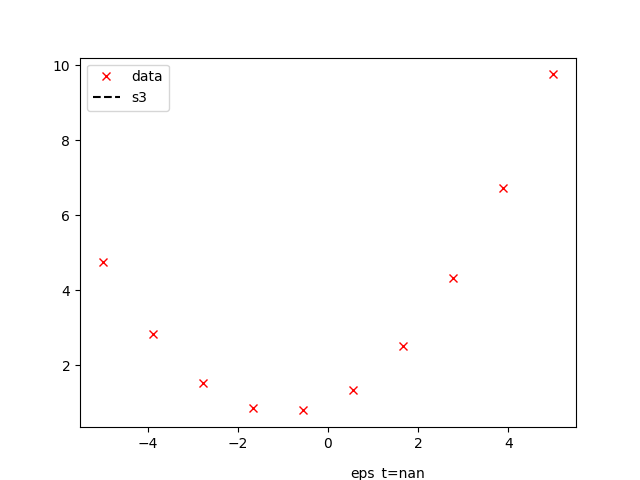
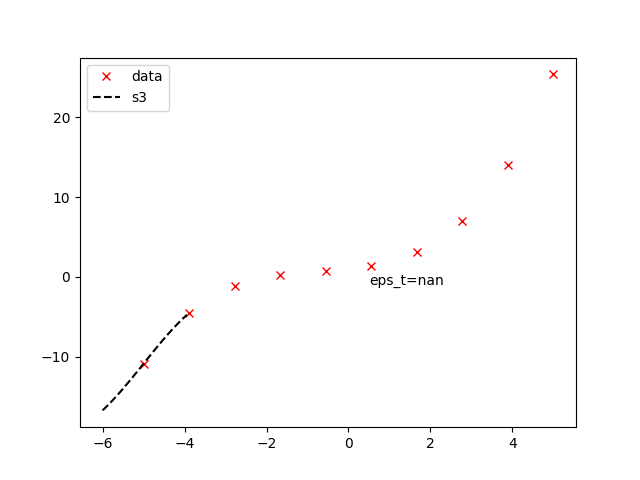
still trying to fix cubic spline

diff --git a/src/lab02/linalg_interp.py b/src/lab02/linalg_interp.py
@@ -29,7 +29,7 @@ def gauss_iter_solve(A,b,x0=None,tol=1e-8,alg="seidel"):
     dimb=len(b.shape)
     if dimb!=1:
         raise ValueError("b has {dimb} dimensions, should be 1")
-    #implement checks for the x0 if else statement
+   
     identity=np.eye(n)
 
     A_diag=np.diag(1.0/np.diag(A))
@@ -77,7 +77,12 @@ def spline_function(xd,yd,order=3):
         s1, s2, s3: function of interpolation  
         -------
     """
-    #make checks for dimensions for xd and yd
+    if len(xd)!=len(yd):
+        raise ValueError ("Data dimensions not equal")
+    xd_unique=np.unique(xd)
+    if len(xd_unique)!=len(xd):
+        raise ValueError ("Repetition of values in x data")
+    
     k_sort=np.argsort(xd)
     xd=np.array([xd[k] for k in k_sort])
     yd=np.array([yd[k] for k in k_sort])
@@ -94,6 +99,7 @@ def spline_function(xd,yd,order=3):
                else np.nonzero(xd<x)[0][-1])
             return a[k]+b[k]*(x-xd[k])
         return s1
+    
     elif order==2:
         A0=np.hstack([np.diag(dx[:-1]),np.zeros((N-2,1))])
         A1=np.hstack([np.zeros((N-2,1)),np.diag(dx[1:])])
@@ -102,9 +108,6 @@ def spline_function(xd,yd,order=3):
         B=np.zeros_like(dx)
         B[1:]=np.diff(f1)
         c=np.linalg.solve(A,B)
-
-        #print(A,B)
-
         b=f1-c*dx
         def s2(x):
             k=(0 if x <= xd[0]
@@ -112,25 +115,31 @@ def spline_function(xd,yd,order=3):
                else np.nonzero(xd<x)[0][-1])
             return a[k]+b[k]*(x-xd[k])+c[k]*(x-xd[k])**2
         return s2
+    #get zero along main diagonal?
+    #not indexing near the end correctly, especially 2nd last row?
     elif order==3:
         A=np.zeros((N,N))
-        #A[-2,-1]=dx[-1]
-        #A[1,0]=dx[0]
-        A[1:-1, :-2]+=np.diag(dx[:-1])
-        A[1:-1, 1:-1]+=2.0*(np.diag(dx[1:]+dx[:-1]))
-        A[1:-1, 2:]=+np.diag(dx[1:])
-        A[0,:3]=(-dx[1], (dx[0]+dx[1]), -dx[0])
-        A[-1,-3:]=(-dx[-1], (dx[-2]+dx[-1]), -dx[-2])
+        A[1,0]=dx[0]
+        A[-2,-1]=dx[-1]
+        A[0,:3]=[-dx[1], (dx[0]+dx[1]), -dx[-2]]
+        A[-1,-3:]=[-dx[-1], (dx[-1]+dx[-2]), -dx[-2]]
+        A[1:-1,:-2]=np.diag(dx[:-1])
+        A[1:-1,1:-1]=np.diag(2*(dx[:-1]+dx[1:]))
+        A[1:-1,2:]=np.diag(dx[1:])
+        print(A)
+
         B=np.zeros(N)
         B[1:-1]=3*np.diff(f1)
-        #print(A,B)
 
         c=gauss_iter_solve(A,B)
-        d=(c[1:]-c[-1])/(3.0*dx)
-        b=f1-c[-1]*dx-d*(dx**2)
+        d=np.diff(c)/(3.0*dx)
+        b=f1-c[:-1]*dx-d*dx**2
         def s3(x):
             k=(0 if x <= xd[0]
                else len(a)-1 if x>=xd[-1]
                else np.nonzero(xd<x)[0][-1])
             return a[k]+b[k]*(x-xd[k])+c[k]*(x-xd[k])**2+d[k]*(x-xd[k])**3
         return s3
+        
+    else:
+        return ValueError ("Invalid order, needs to be 1,2 or 3")

diff --git a/examples/test.py b/examples/test.py
@@ -1,5 +1,6 @@
 import numpy as np
 import matplotlib.pyplot as plt
+#from scipy.interpolate import CubicSpline
 import sys
 
 sys.path.insert(1, '/goph419-f2023-lab02-stSL/src/lab02')
@@ -39,10 +40,10 @@ def test_gauss_iter_solve():
 
 def test_spline():
     xd=np.linspace(-5.0,5.0,10)
-    yd=1.0+0.5*xd
 
     #testing first order spline interpolation
 
+    yd=1.0+0.5*xd
     s1=spline_function(xd,yd,order=1)
     xp=np.linspace(-6.0,6.0,100)
     yp_exp=1.0+0.5*xp
@@ -58,14 +59,11 @@ def test_spline():
     plt.legend()
     plt.savefig("../figures/test_linear.png")
 
-
-    #xd=np.linspace(-5.0,5.0,10)
-    yd=1.0+0.5*xd+0.25*xd**2
-
     #testing second order spline interpolation
 
+    yd=1.0+0.5*xd+0.25*xd**2
     s2=spline_function(xd,yd,order=2)
-    xp=np.linspace(-5.0,5.0,100)
+    xp=np.linspace(-6.0,6.0,100)
     yp_exp=1.0+0.5*xp+0.25*xp**2
     yp_actual=np.array(
         [s2(x) for x in xp]
@@ -81,7 +79,9 @@ def test_spline():
     
     #testing third order spline interpolation
     
-    s3=spline_function(xd,yd,order=3)
+    yd=1.0+0.5*xd+0.25*xd**2+0.125*xd**3
+    s3=spline_function(xd,yd)
+    #s3=CubicSpline(xd,yd)
     xp=np.linspace(-6.0,6.0,100)
     yp_exp=1.0+0.5*xp+0.25*xp**2+0.125*xp**3
     yp_actual=np.array(

diff --git a/examples/driver.py b/examples/driver.py
@@ -1,5 +1,7 @@
 import numpy as np
 import sys
+import matplotlib.pyplot as plt
+from scipy.interpolate import CubicSpline
 
 sys.path.insert(1, '/goph419-f2023-lab02-stSL/src/lab02')
 
@@ -9,7 +11,33 @@ from linalg_interp import (
 )
 
 def main():
-    alg=(input(""))
-    water_temps=np.loadtext("water_density_vs_temp_usgs.txt")
-    air_temps=np.loadtext("air_density_vs_temp_eng_toolbox.txt")
+    water_temps=np.loadtxt("water_density_vs_temp_usgs.txt", dtype=float)
 
+    water_t=water_temps[:,0]
+    water_d=water_temps[:,1]
+
+    water_x=np.linspace(np.min(water_t),np.max(water_t),100)
+
+    spline1=spline_function(water_t,water_d, order=1)
+    spline2=spline_function(water_t,water_d, order=2)
+    spline3=CubicSpline(water_t,water_d)
+
+    water_y1=spline1(water_x)
+    water_y2=spline2(water_x)
+    water_y3=spline3(water_x)
+
+    fig,axis=plt.subplots(nrows=2,ncolumns=3, figsize=(15,15))
+
+    axis[0][0].plot(water_x, water_y1, 'y--', label="linear spline case")
+    axis[0][0].set_xlabel("Temperature(C)")
+    
+
+    air_temps=np.loadtxt("air_density_vs_temp_eng_toolbox.txt", dtype=float)
+
+    air_t=air_temps[:,0]
+    air_d=air_temps[:,1]
+
+
+
+if __name__=="__main__":
+    main()
